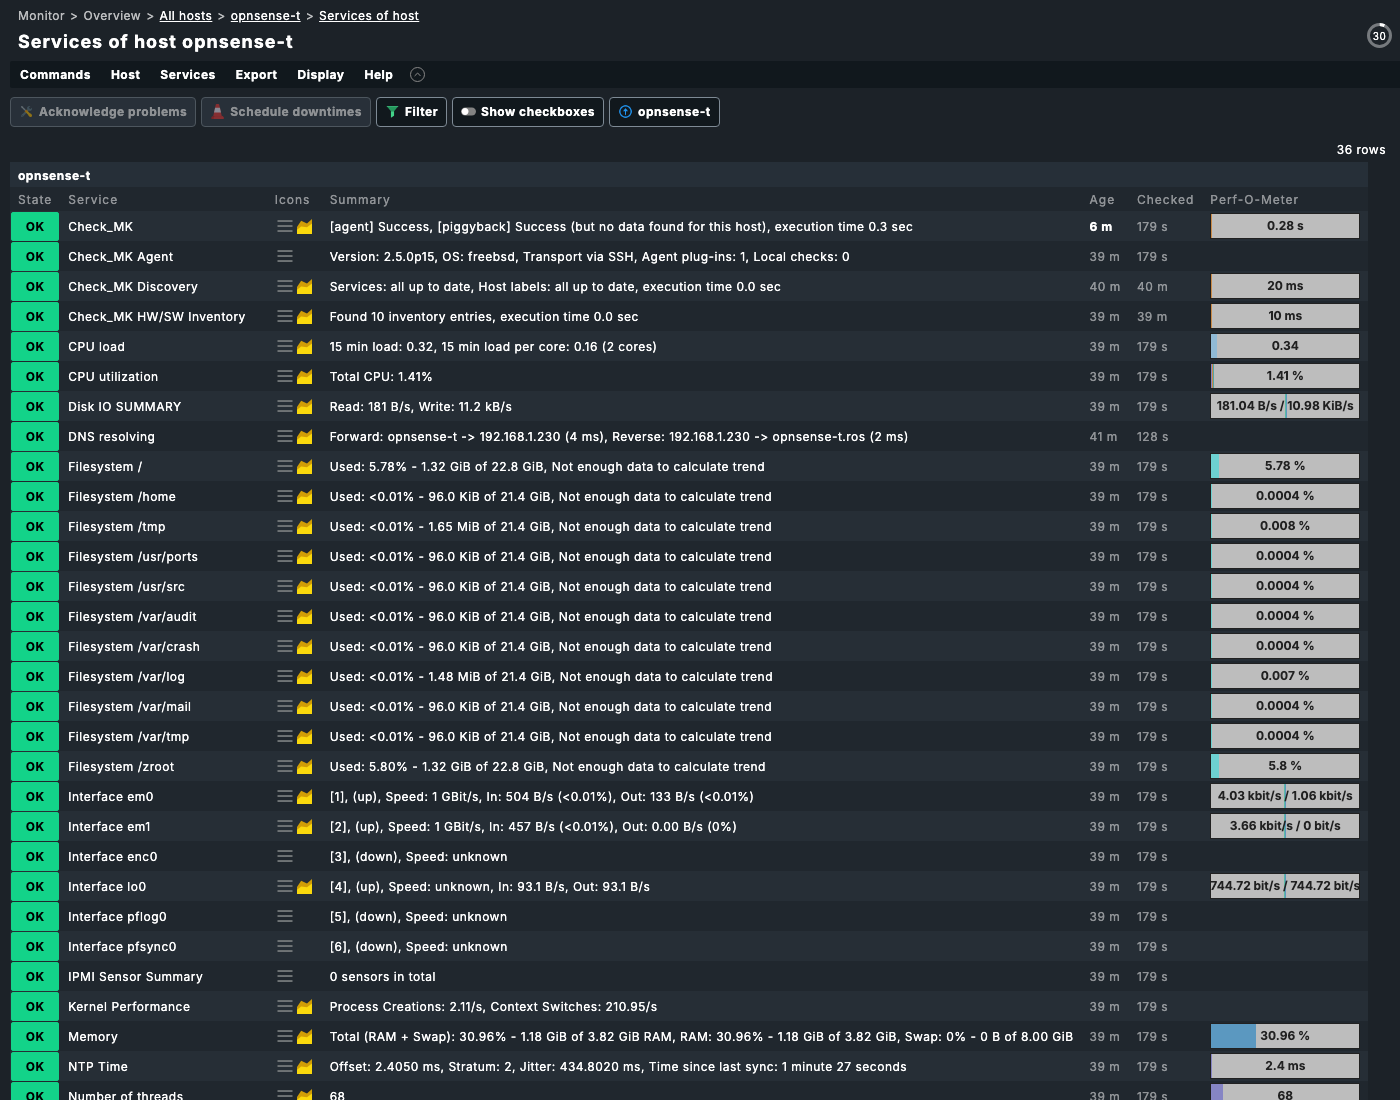
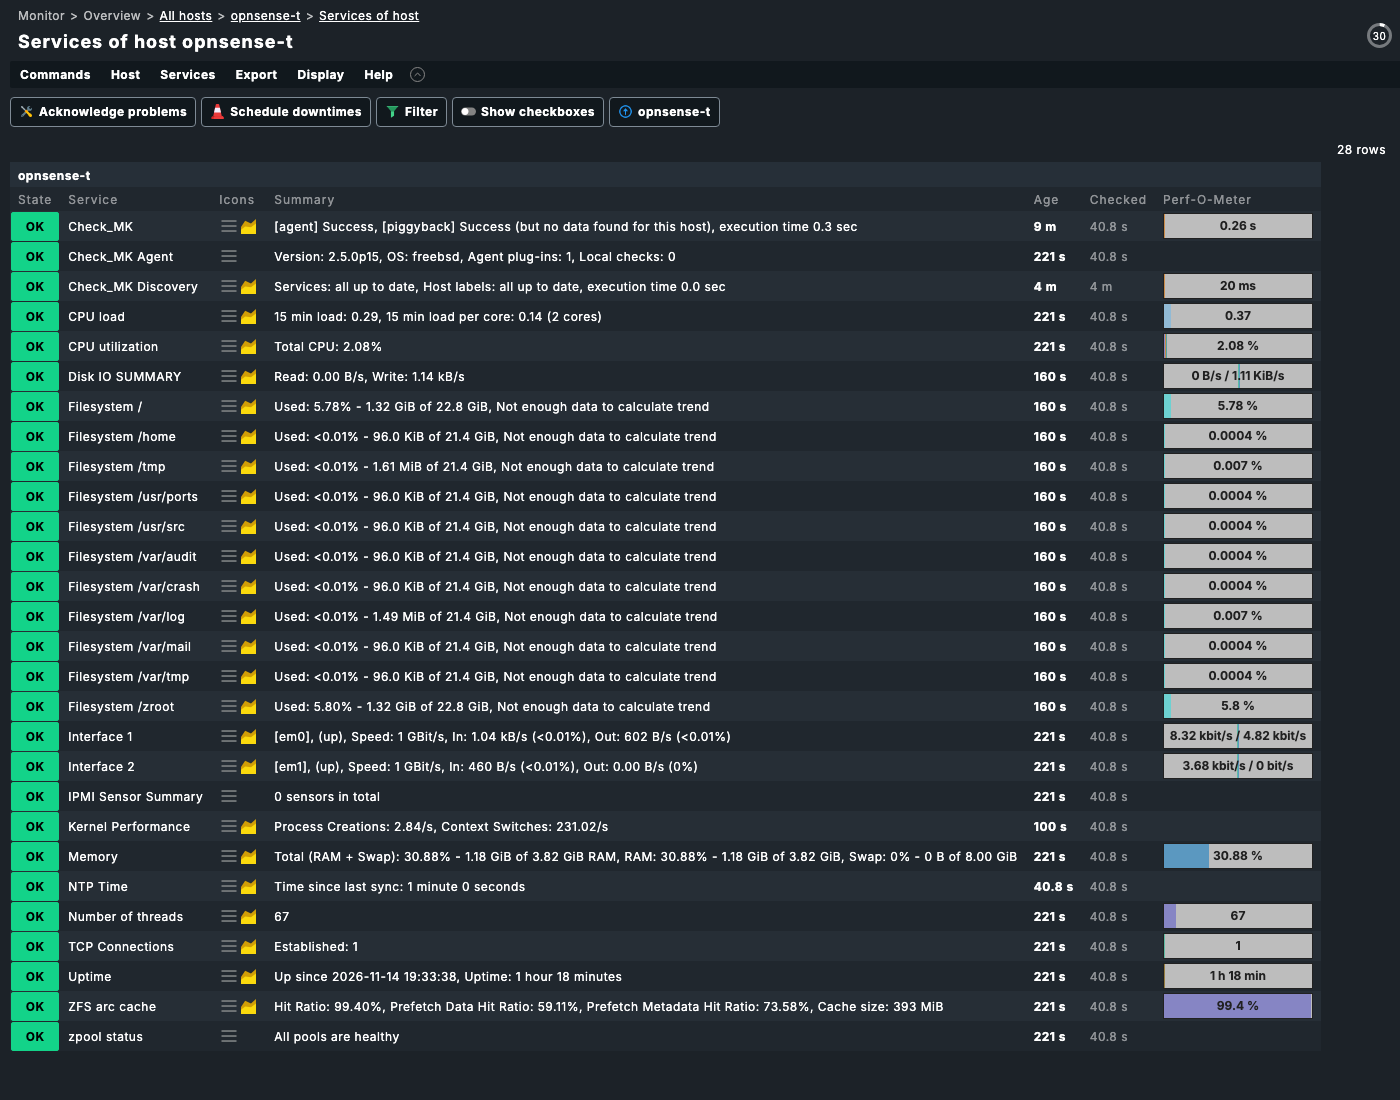
Add screenshots of a fresh site and the settings page, SSH section

diff --git a/README.md b/README.md
@@ -22,6 +22,7 @@ labels that mark the host as OPNsense.
 - [Setup](#setup)
 - [Encryption](#encryption)
 - [Host labels](#host-labels)
+- [Query over SSH](#query-over-ssh)
 - [Own agent plugins and local checks](#own-agent-plugins-and-local-checks)
 - [Updates](#updates)
 - [OPNsense data from the REST API](#opnsense-data-from-the-rest-api)
@@ -62,9 +63,14 @@ Settings page under *Services › Checkmk Agent*:
 
 ![Settings](docs/screenshots/settings.png)
 
-The firewall as a host in Checkmk:
+The firewall as a host in a fresh Checkmk 2.5 site, with only the services the
+agent provides:
 
 ![Services in Checkmk](docs/screenshots/checkmk-services.png)
+
+Host labels set by the plugin, next to Checkmk's own labels:
+
+![Host labels](docs/screenshots/checkmk-labels.png)
 
 ## Tested with
 
@@ -124,6 +130,32 @@ Checkmk shows them on the host after the service discovery. Use them in rule
 conditions to target all OPNsense firewalls, or one OPNsense version. The agent
 itself still reports `AgentOS: freebsd`, so rules for FreeBSD hosts keep
 applying.
+
+## Query over SSH
+
+> Not yet tested end to end; based on how OPNsense manages users and SSH.
+
+Instead of TCP port 6556, Checkmk can also run the agent over SSH. This needs no
+setting in the plugin; OPNsense's own user management does it:
+
+1. *System › Access › Users*: create a user, e.g. `checkmk`, member of the group
+   `admins`, login shell `/bin/sh`. OPNsense allows SSH only for members of
+   `admins` (wheel). Do not set a password the user knows.
+2. In the field *Authorized keys* of that user, enter the public key of the
+   Checkmk site, restricted to the agent:
+
+   ```
+   command="/usr/local/bin/check_mk_agent",no-port-forwarding,no-X11-forwarding,no-agent-forwarding,no-pty ssh-ed25519 AAAA... checkmk
+   ```
+
+3. *System › Settings › Administration*: enable Secure Shell.
+4. In Checkmk, use the rule *Individual program call instead of agent access*
+   with `ssh -T -oStrictHostKeyChecking=accept-new checkmk@$HOSTADDRESS$`.
+
+OPNsense writes the key from `config.xml`, so it survives updates and reboots.
+Over SSH the transport is encrypted by SSH itself; the *Encryption* setting of
+the plugin applies to port 6556 only. Enable the plugin's agent service only if
+you also want port 6556.
 
 ## Own agent plugins and local checks
 
